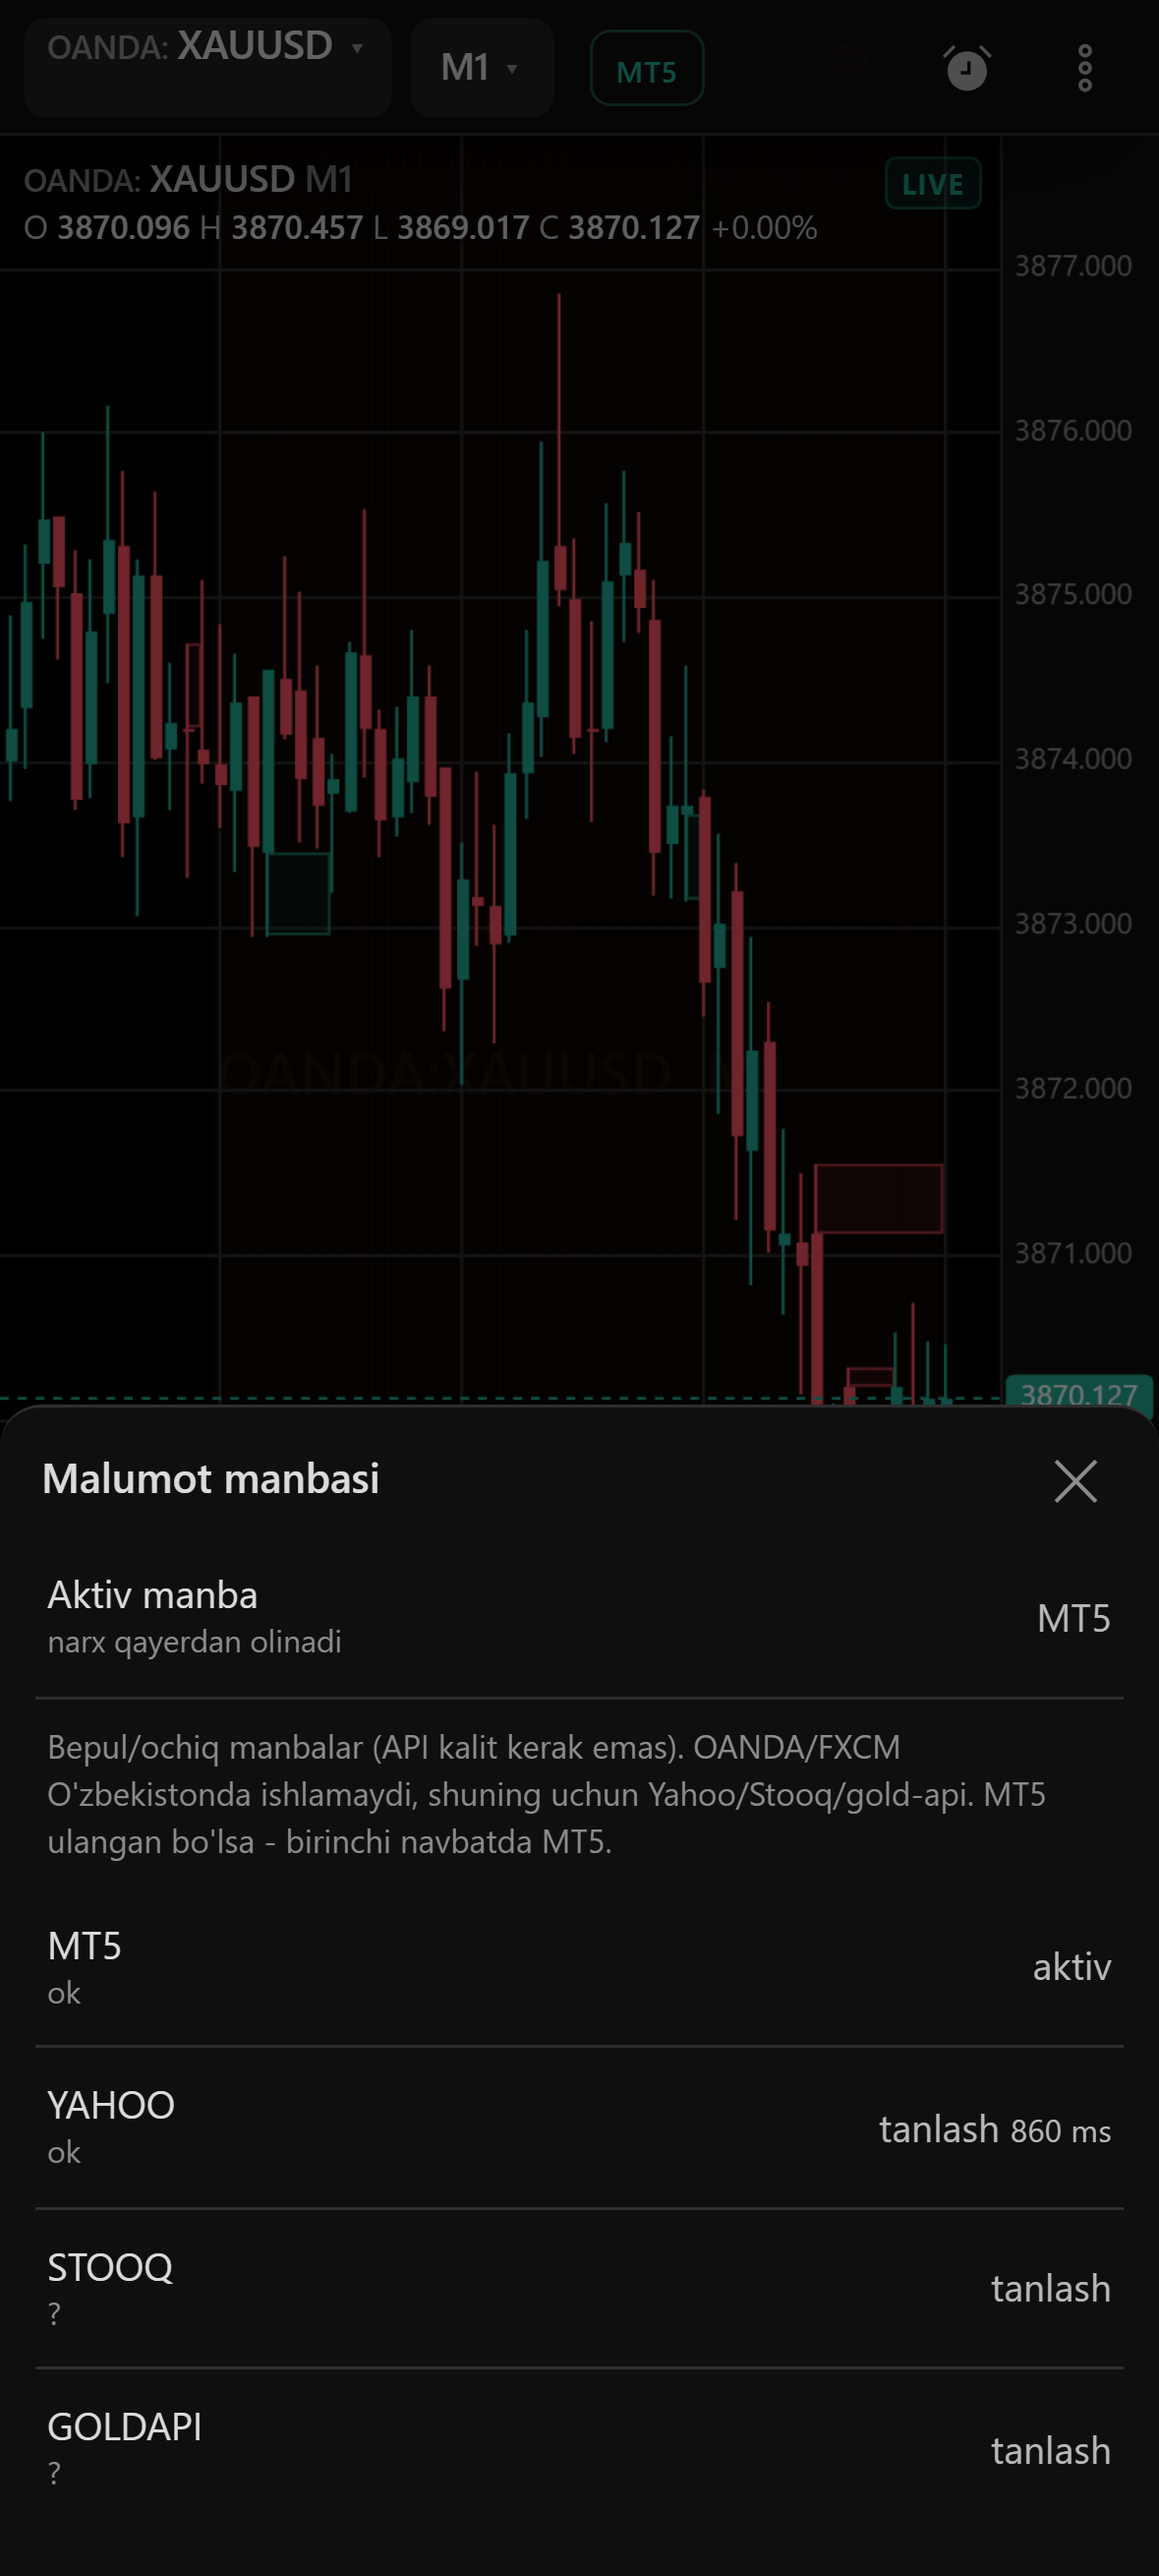
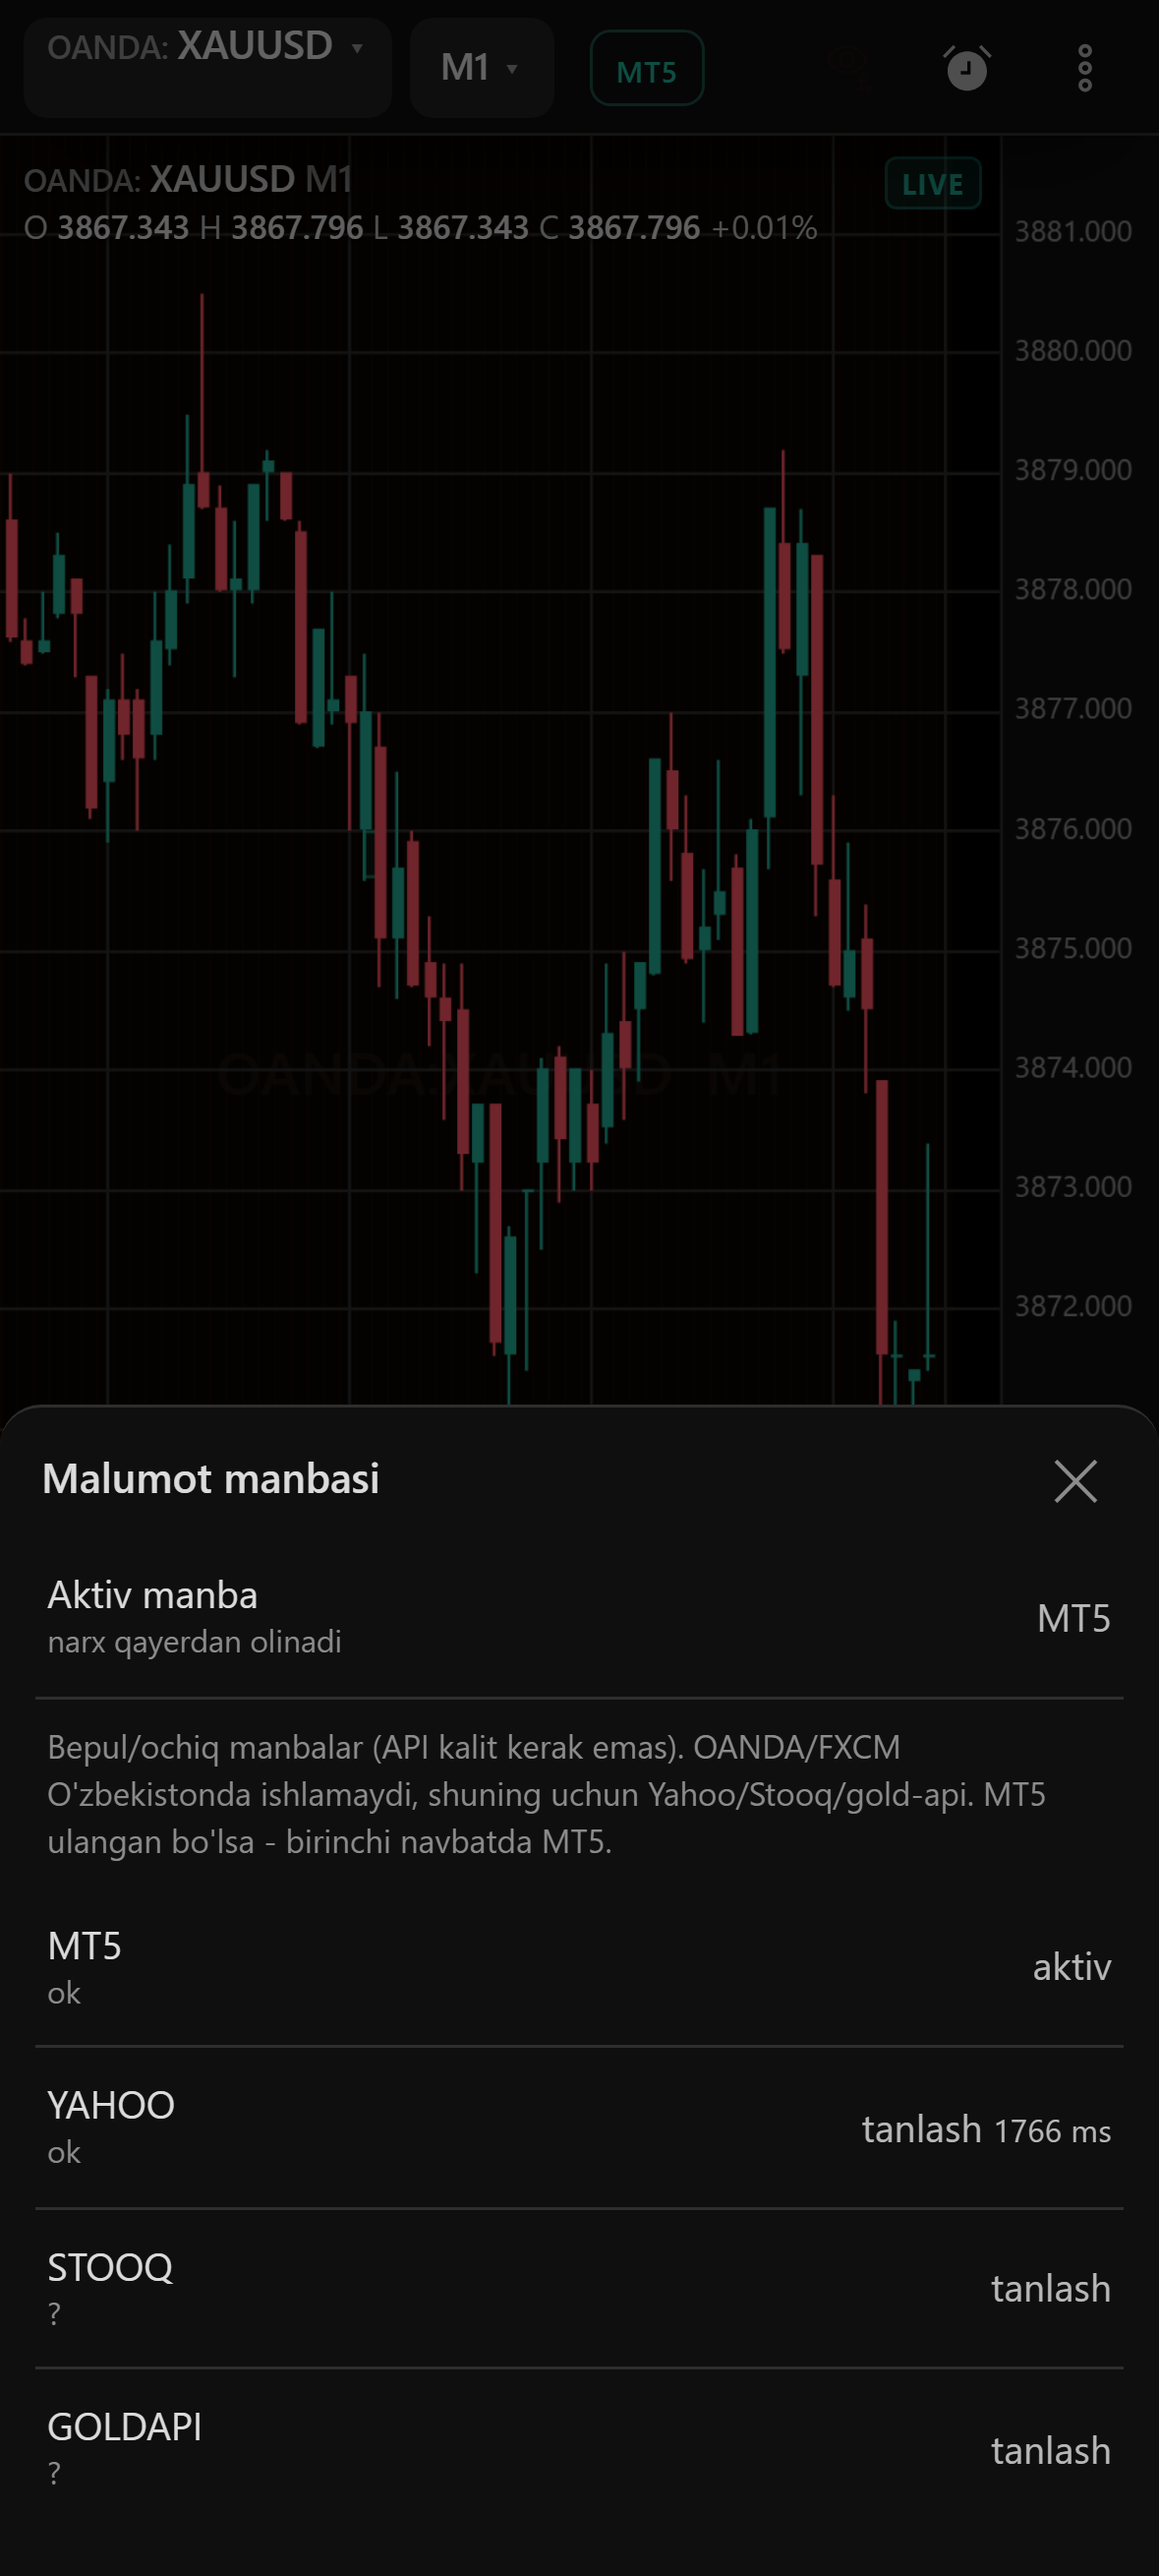
APK build: Gradle-free WebView wrapper (aapt2/javac/d8/apksigner) + build script + docs

diff --git a/mobile/index.html b/mobile/index.html
@@ -3139,6 +3139,9 @@ function opSheet(){
   opLoad(function(){
     var h = '<div class="row"><span class="lbl">Aktiv manba<small>narx qayerdan olinadi</small></span><span class="val">' + esc(String(OP.active || '--').toUpperCase()) + '</span></div>';
     h += '<div class="hint">Bepul/ochiq manbalar (API kalit kerak emas). OANDA/FXCM O\'zbekistonda ishlamaydi, shuning uchun Yahoo/Stooq/gold-api. MT5 ulangan bo\'lsa - birinchi navbatda MT5.</div>';
+    if (typeof And !== 'undefined' && And && And.getServer) {
+      h += '<div class="row" id="opSrv"><span class="lbl">APK server manzili<small>' + esc(And.getServer() || 'offline') + '</small></span><span class="val">ozgartirish</span></div>';
+    }
     if (OP.list.length) {
       h += '<div style="margin-top:8px">';
       OP.list.forEach(function(p){
@@ -3150,6 +3153,8 @@ function opSheet(){
       h += '</div>';
     } else h += '<div class="hint">Server /api/providers bermadi (eski versiya bo\'lishi mumkin).</div>';
     openSheet('Malumot manbasi', h, function(body){
+      var sr = body.querySelector('#opSrv');
+      if (sr) sr.addEventListener('click', function(){ closeSheet(); setTimeout(function(){ And.chooseServer(); }, 200); });
       body.querySelectorAll('[data-prov]').forEach(function(row){
         row.addEventListener('click', function(){
           var nm = row.getAttribute('data-prov');

diff --git a/mobile/src/_m10_open.js b/mobile/src/_m10_open.js
@@ -45,6 +45,9 @@ function opSheet(){
   opLoad(function(){
     var h = '<div class="row"><span class="lbl">Aktiv manba<small>narx qayerdan olinadi</small></span><span class="val">' + esc(String(OP.active || '--').toUpperCase()) + '</span></div>';
     h += '<div class="hint">Bepul/ochiq manbalar (API kalit kerak emas). OANDA/FXCM O\'zbekistonda ishlamaydi, shuning uchun Yahoo/Stooq/gold-api. MT5 ulangan bo\'lsa - birinchi navbatda MT5.</div>';
+    if (typeof And !== 'undefined' && And && And.getServer) {
+      h += '<div class="row" id="opSrv"><span class="lbl">APK server manzili<small>' + esc(And.getServer() || 'offline') + '</small></span><span class="val">ozgartirish</span></div>';
+    }
     if (OP.list.length) {
       h += '<div style="margin-top:8px">';
       OP.list.forEach(function(p){
@@ -56,6 +59,8 @@ function opSheet(){
       h += '</div>';
     } else h += '<div class="hint">Server /api/providers bermadi (eski versiya bo\'lishi mumkin).</div>';
     openSheet('Malumot manbasi', h, function(body){
+      var sr = body.querySelector('#opSrv');
+      if (sr) sr.addEventListener('click', function(){ closeSheet(); setTimeout(function(){ And.chooseServer(); }, 200); });
       body.querySelectorAll('[data-prov]').forEach(function(row){
         row.addEventListener('click', function(){
           var nm = row.getAttribute('data-prov');

diff --git a/apk-build/java/com/xauview/app/MainActivity.java b/apk-build/java/com/xauview/app/MainActivity.java
@@ -1,0 +1,148 @@
+package com.xauview.app;
+
+import android.annotation.SuppressLint;
+import android.app.Activity;
+import android.app.AlertDialog;
+import android.content.DialogInterface;
+import android.content.SharedPreferences;
+import android.graphics.Color;
+import android.os.Build;
+import android.os.Bundle;
+import android.text.InputType;
+import android.view.ViewGroup;
+import android.view.Window;
+import android.webkit.ConsoleMessage;
+import android.webkit.JavascriptInterface;
+import android.webkit.PermissionRequest;
+import android.webkit.WebChromeClient;
+import android.webkit.WebResourceError;
+import android.webkit.WebResourceRequest;
+import android.webkit.WebSettings;
+import android.webkit.WebView;
+import android.webkit.WebViewClient;
+import android.widget.EditText;
+import android.widget.FrameLayout;
+import android.widget.Toast;
+
+public class MainActivity extends Activity {
+    private static final String PREFS = "xauview";
+    private static final String KEY_URL = "server_url";
+    private static final String DEFAULT_URL = "http://10.149.101.17:8765/";
+    private WebView web;
+    private SharedPreferences prefs;
+
+    @SuppressLint("SetJavaScriptEnabled")
+    @Override
+    protected void onCreate(Bundle b) {
+        super.onCreate(b);
+        prefs = getSharedPreferences(PREFS, MODE_PRIVATE);
+        Window w = getWindow();
+        w.setStatusBarColor(Color.BLACK);
+        w.setNavigationBarColor(Color.BLACK);
+
+        FrameLayout root = new FrameLayout(this);
+        root.setBackgroundColor(Color.BLACK);
+        web = new WebView(this);
+        web.setBackgroundColor(Color.BLACK);
+        root.addView(web, new FrameLayout.LayoutParams(ViewGroup.LayoutParams.MATCH_PARENT, ViewGroup.LayoutParams.MATCH_PARENT));
+        setContentView(root);
+
+        WebSettings s = web.getSettings();
+        s.setJavaScriptEnabled(true);
+        s.setDomStorageEnabled(true);
+        s.setDatabaseEnabled(true);
+        s.setLoadWithOverviewMode(true);
+        s.setUseWideViewPort(true);
+        s.setMediaPlaybackRequiresUserGesture(false);
+        if (Build.VERSION.SDK_INT >= 21) s.setMixedContentMode(WebSettings.MIXED_CONTENT_ALWAYS_ALLOW);
+
+        web.addJavascriptInterface(new Bridge(), "And");
+
+        web.setWebChromeClient(new WebChromeClient() {
+            @Override
+            public void onPermissionRequest(final PermissionRequest r) {
+                runOnUiThread(new Runnable() { public void run() { r.grant(r.getResources()); } });
+            }
+            @Override
+            public boolean onConsoleMessage(ConsoleMessage m) { return true; }
+        });
+
+        web.setWebViewClient(new WebViewClient() {
+            @Override
+            public void onReceivedError(WebView v, WebResourceRequest req, WebResourceError err) {
+                if (req != null && req.isForMainFrame()) toast("Server topilmadi - manzilni tekshiring");
+            }
+        });
+
+        if (Build.VERSION.SDK_INT >= 33) {
+            try { requestPermissions(new String[]{"android.permission.POST_NOTIFICATIONS"}, 7); } catch (Throwable t) {}
+        }
+
+        String url = prefs.getString(KEY_URL, "");
+        if (url.length() == 0) askServer(false);
+        else load(url);
+    }
+
+    private void load(String url) {
+        if (url == null || url.trim().length() == 0 || url.trim().equalsIgnoreCase("offline")) {
+            web.loadUrl("file:///android_asset/index.html");
+            return;
+        }
+        String u = url.trim();
+        if (!u.startsWith("http")) u = "http://" + u;
+        if (!u.endsWith("/")) u = u + "/";
+        web.loadUrl(u);
+    }
+
+    private void askServer(final boolean cancelable) {
+        final EditText et = new EditText(this);
+        et.setInputType(InputType.TYPE_TEXT_VARIATION_URI);
+        et.setSingleLine(true);
+        String cur = prefs.getString(KEY_URL, DEFAULT_URL);
+        et.setText(cur);
+        et.setSelection(et.getText().length());
+        AlertDialog.Builder ab = new AlertDialog.Builder(this);
+        ab.setTitle("Server manzili");
+        ab.setMessage("Telefon va kompyuter bir Wi-Fi da bolsin. Masalan: http://10.149.101.17:8765 . Oflayn rejim uchun: offline");
+        ab.setView(et);
+        ab.setPositiveButton("Ulanish", new DialogInterface.OnClickListener() {
+            public void onClick(DialogInterface d, int i) {
+                String v = et.getText().toString().trim();
+                prefs.edit().putString(KEY_URL, v).apply();
+                load(v);
+            }
+        });
+        if (cancelable) ab.setNegativeButton("Bekor", null);
+        else ab.setNegativeButton("Oflayn", new DialogInterface.OnClickListener() {
+            public void onClick(DialogInterface d, int i) {
+                prefs.edit().putString(KEY_URL, "offline").apply();
+                load("offline");
+            }
+        });
+        ab.show();
+    }
+
+    private void toast(String m) { Toast.makeText(this, m, Toast.LENGTH_SHORT).show(); }
+
+    public class Bridge {
+        @JavascriptInterface
+        public String getServer() { return prefs.getString(KEY_URL, ""); }
+        @JavascriptInterface
+        public void setServer(final String u) {
+            runOnUiThread(new Runnable() { public void run() {
+                prefs.edit().putString(KEY_URL, u).apply();
+                load(u);
+            } });
+        }
+        @JavascriptInterface
+        public void chooseServer() { runOnUiThread(new Runnable() { public void run() { askServer(true); } }); }
+        @JavascriptInterface
+        public String platform() { return "android-apk"; }
+    }
+
+    @Override
+    public void onBackPressed() {
+        if (web != null && web.canGoBack()) web.goBack();
+        else moveTaskToBack(true);
+    }
+}

diff --git a/docs/BUILD-APK.md b/docs/BUILD-APK.md
@@ -1,0 +1,55 @@
+# APK build (Gradle'siz, minimal)
+
+APK **Android Studio va Gradle'siz** yig'iladi - faqat SDK `build-tools` + JDK 17.
+
+## Kerakli to'plam (~440 MB)
+
+| Nima | Joy | Hajm |
+|---|---|---|
+| JDK 17 (Temurin) | `D:\Project\AI\Trading-with-ai\jdk-17.0.21+9` | ~190 MB |
+| cmdline-tools | `D:\Android\cmdline-tools\latest` | 136 MB |
+| platforms;android-35 | `D:\Android\platforms\android-35` | ~60 MB |
+| build-tools;35.0.0 | `D:\Android\build-tools\35.0.0` | ~56 MB |
+| platform-tools (adb) | `D:\Android\platform-tools` | ~10 MB |
+
+## Bir marta o'rnatish
+
+```powershell
+$env:JAVA_HOME='D:\Project\AI\Trading-with-ai\jdk-17.0.21+9'
+$env:PATH="$env:JAVA_HOME\bin;$env:PATH"
+& D:\Android\cmdline-tools\latest\bin\sdkmanager.bat --sdk_root=D:\Android --licenses
+& D:\Android\cmdline-tools\latest\bin\sdkmanager.bat --sdk_root=D:\Android 'platform-tools' 'platforms;android-35' 'build-tools;35.0.0'
+```
+
+## Build
+
+```powershell
+powershell -NoProfile -ExecutionPolicy Bypass -File D:\Project\AI\tvclone\apk-build\build.ps1
+```
+
+Natija: `D:\Project\AI\tvclone\XAUView.apk` (~3 MB).
+
+Quvur: `aapt2 compile` -> `aapt2 link` (-A assets) -> `javac` -> `d8` -> `jar uf classes.dex` -> `zipalign` -> `apksigner`.
+
+## Telefonga o'rnatish
+
+1. `adb install -r D:\Project\AI\tvclone\XAUView.apk`
+2. yoki APK'ni telefonga ko'chirib ochish ("Noma'lum manbalar"ga ruxsat).
+3. Ilova birinchi ochilishda **server manzili**ni so'raydi:
+   - `http://10.149.101.17:8765` (bir Wi-Fi, internet kerak emas)
+   - `offline` -> ilova ichidagi `assets/index.html` (snapshot, feed yo'q)
+4. Manzilni keyin o'zgartirish: **Menyu -> Malumot manbasi -> APK server manzili**.
+
+## Texnik tanlovlar
+
+- `compileSdk 35`, `targetSdk 34` - Android 15'da majburiy edge-to-edge bezovta qilmasligi uchun.
+- `minSdk 26` (Android 8+) - WebView + `env(safe-area-inset)` qo'llab-quvvatlanadi.
+- `usesCleartextTraffic=true` - LAN `http://` uchun (https tunnel ham ishlaydi).
+- WebView: JS, DOM storage, mixed content, `WebChromeClient.onPermissionRequest` (notification),
+  `And` JS bridge (`getServer/setServer/chooseServer/platform`) - `_m10_open.js` orqali UI'ga bog'langan.
+- TWA/Bubblewrap **ataylab ishlatilmadi**: u bitta HTTPS originga qulflanadi, tunnel URL o'zgarsa APK buziladi.
+
+## Imzo
+
+- `apk-build/xauview.keystore` birinchi build'da avtomatik yaratiladi (alias `xauview`, parol `xauview123`).
+- Bu **debug/dev imzo** - Play Store uchun alohida keystore kerak (va targetSdk 35).
